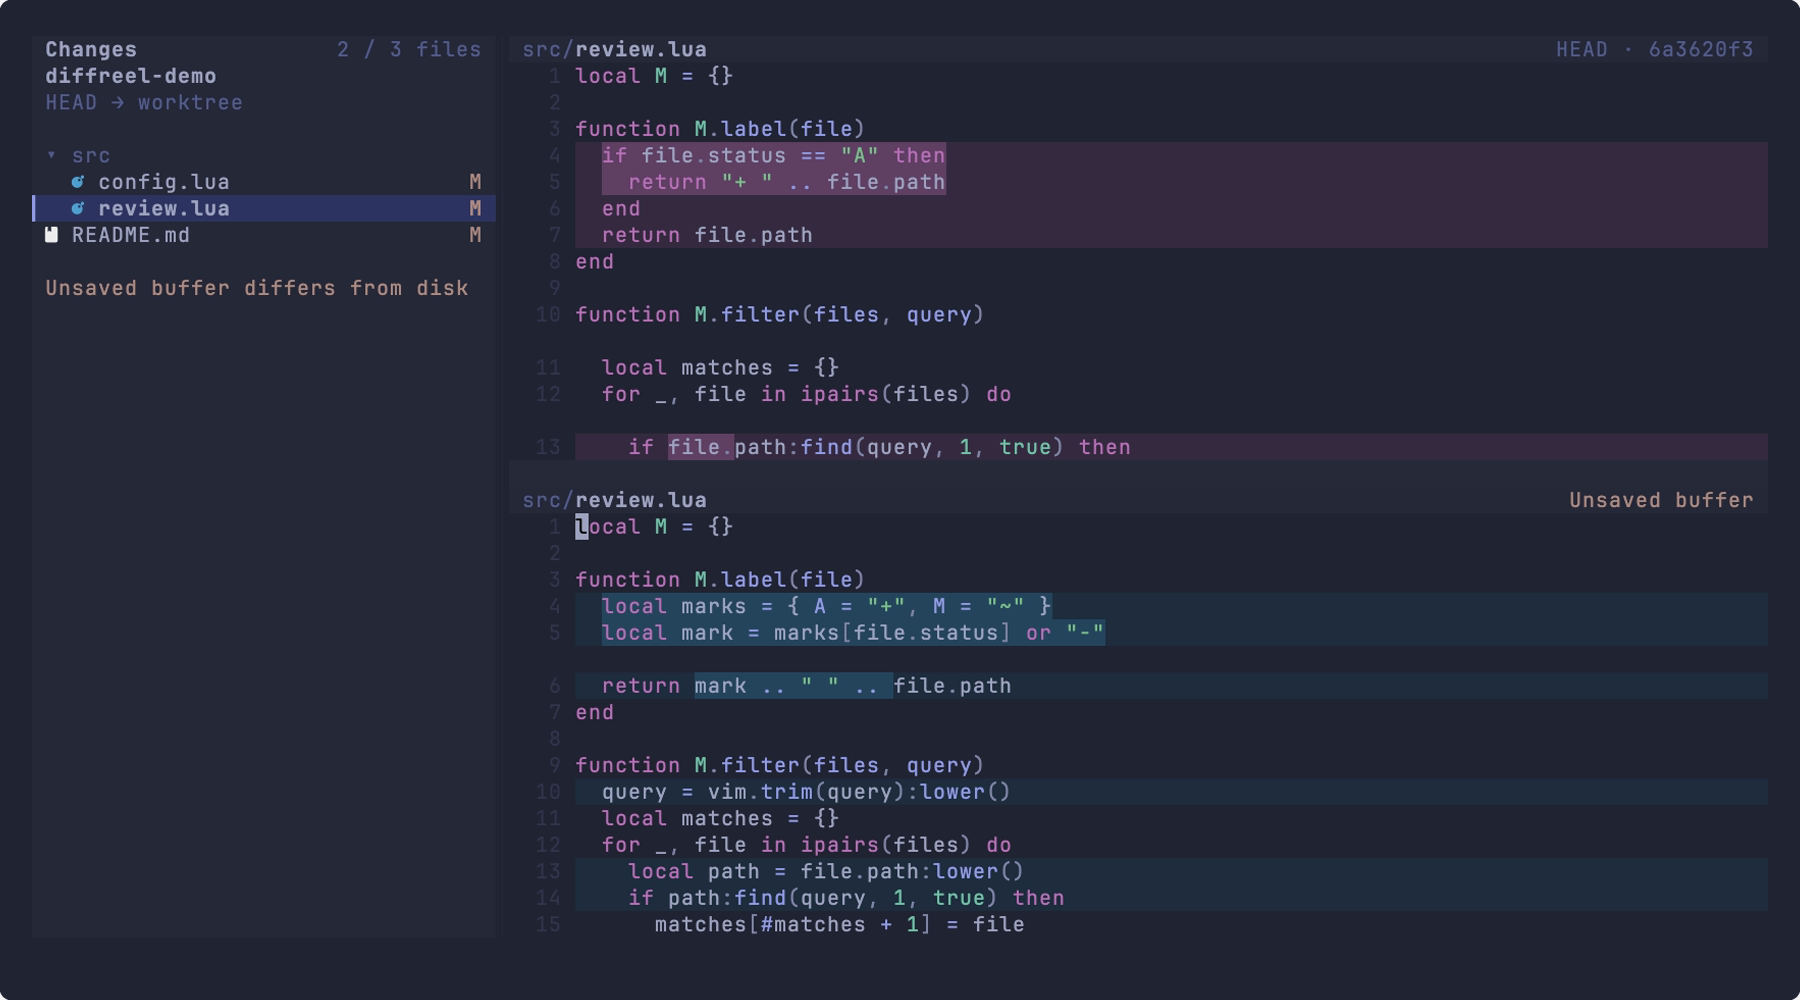
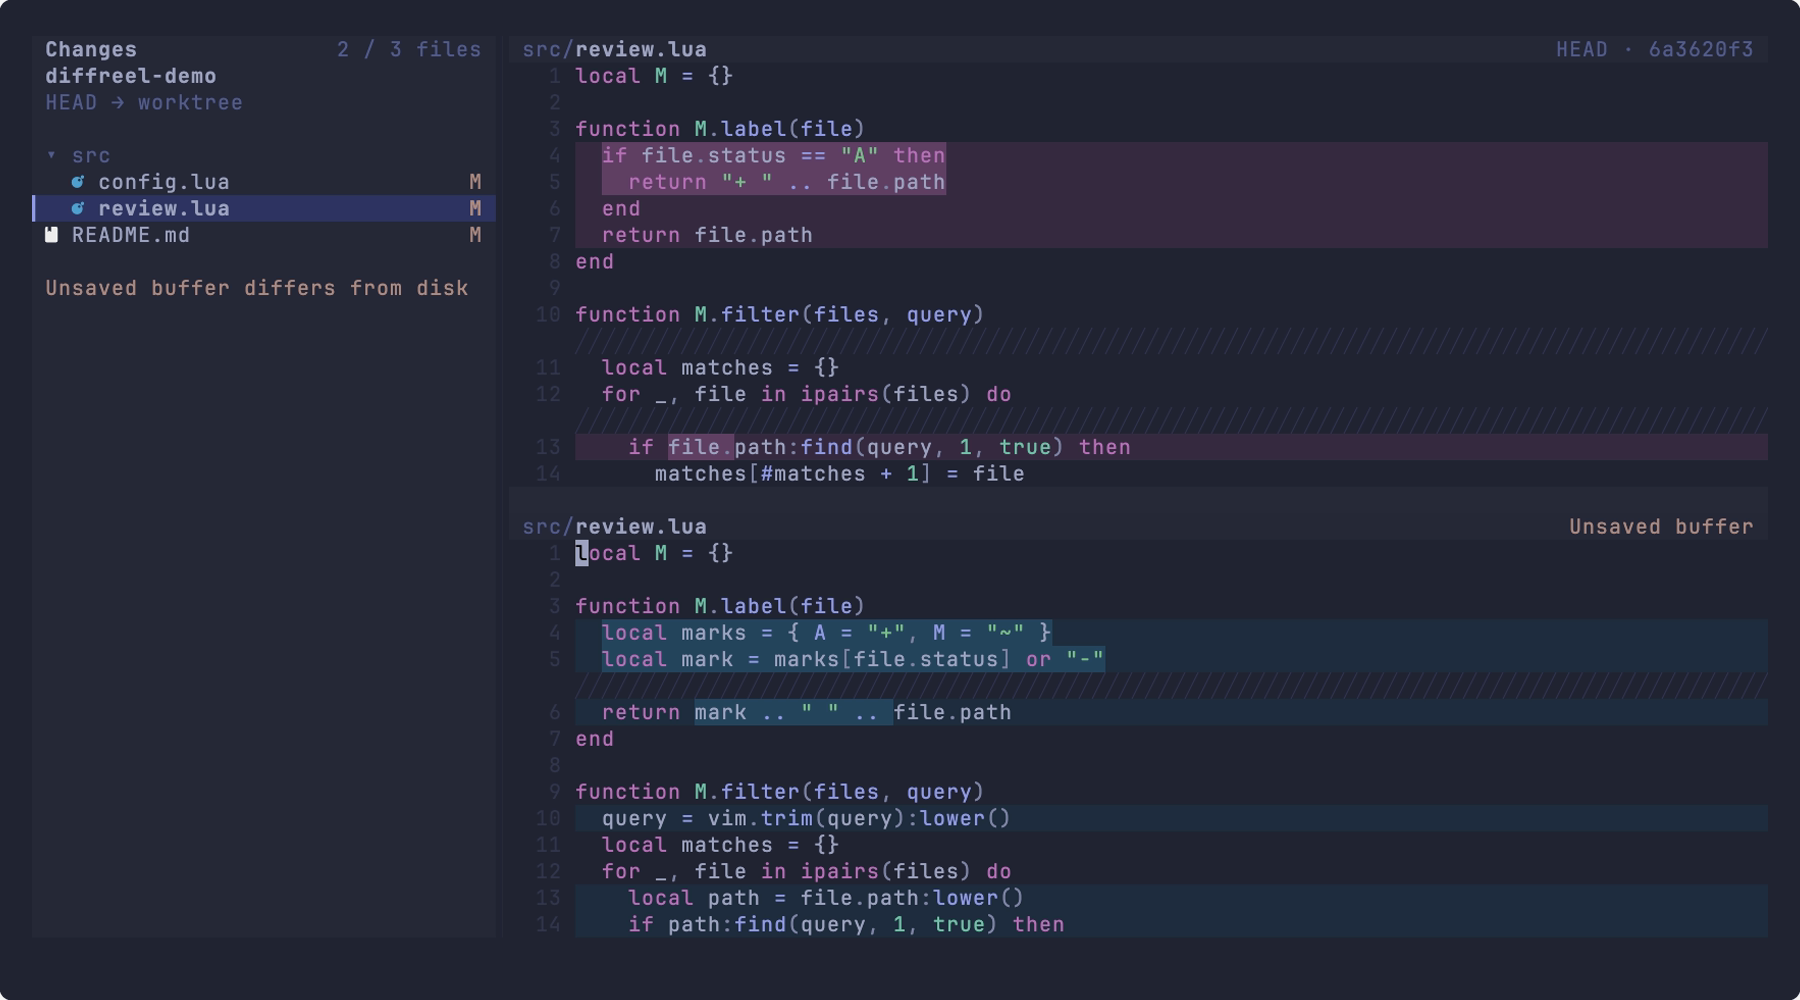
fix: preserve configured diff filler characters (#7)
## Summary

Review panes were replacing `fillchars.diff` with a space, hiding
configured diagonal filler. Preserve Neovim's configured character while
retaining subdued filler colors and blank end-of-buffer rows.

Add regression coverage for global/local settings, cleanup and rendered
filler across layout transitions. Document diagonal filler configuration
and refresh the README screenshots and GIFs using that setting.

## Validation

- Passed eight focused Lua suites covering presentation, highlights,
diff display, layouts and cleanup, plus the embedded highlight UI suite.
- Verified the regression fails before the fix and passes afterward;
checked file switching and unsaved-buffer preservation with the
installed Neovim configuration.
- Regenerated all five VHS scenes with successful checkpoints; inspected
the screenshots and browser GIF playback. Both demo fixture/publication
tests passed.
- Passed StyLua, Deno formatting/lint/type checks, help-tag/snippet
checks and `git diff --check`.

## References

- Restores configured filler hidden by #3.

Changed region(s): [[0.28, 0.465, 0.6222, 0.93], [0.8711, 0.496, 0.9644, 0.558]]

diff --git a/tests/highlights_ui.ts b/tests/highlights_ui.ts
@@ -42,12 +42,21 @@ async function main() {
   await git(root, "init", "-qb", "main");
   mkdir(join(root, "dir"));
   write(join(root, "dir/alpha.txt"), "same\nold value\n");
+  write(
+    join(root, "dir/filler.txt"),
+    "header\nremoved only\nseparator one\nold call\nold argument\nseparator two\nfooter\n",
+  );
   await git(root, "add", ".");
   await git(root, "commit", "-qm", "base");
   write(join(root, "dir/alpha.txt"), "same\nnew value\n");
+  write(
+    join(root, "dir/filler.txt"),
+    "header\nseparator one\nnew call\nseparator two\nadded first\nadded second\nfooter\n",
+  );
   const nvim = await Nvim.create(root, { columns: 145, rows: 35 });
   try {
     await nvim.lua(`
+      vim.opt.fillchars:append({diff='╱'})
       vim.api.nvim_set_hl(0,'DevIconFixture',{fg=0x123abc})
       package.preload['nvim-web-devicons']=function()
         return {get_icon=function() return 'I','DevIconFixture' end}
@@ -140,6 +149,76 @@ async function main() {
     await flush(nvim);
     assertEquals(style(nvim, "2-", "old value").foreground, 0x66ee88);
     nvim.capture(out, "inline");
+    await nvim.lua(`
+      plugin.setup({on_highlight=false})
+      plugin.select(v,'dir/filler.txt')
+    `);
+    await nvim.wait(
+      "return v.ready and v.selected_path=='dir/filler.txt' and not v.inline_pending or v.error",
+    );
+    assert(!await nvim.lua("return v.error"));
+    for (
+      const layout of ["side_by_side", "stacked", "inline", "side_by_side"]
+    ) {
+      await nvim.lua("plugin.set_layout(v,...)", layout);
+      await nvim.wait(
+        "return v.ready and not v.inline_pending or v.error",
+      );
+      assert(!await nvim.lua("return v.error"));
+      assertEquals(await nvim.lua("return v.layout"), layout);
+      await flush(nvim);
+      const groups = await nvim.lua(`
+        local groups={}
+        for _,name in ipairs({'DiffreelLineDelete','DiffreelLineAdd','DiffreelFiller'}) do
+          groups[name]=vim.api.nvim_get_hl(0,{name=name,link=false})
+        end
+        return groups
+      `);
+      assertEquals(
+        style(nvim, "removed only").background,
+        groups.DiffreelLineDelete.bg,
+      );
+      assertEquals(
+        style(nvim, "added first").background,
+        groups.DiffreelLineAdd.bg,
+      );
+      if (layout === "inline") {
+        assert(
+          !nvim.text().includes("╱"),
+          "Inline rendered native diff filler",
+        );
+      } else {
+        const windows = await nvim.lua(`
+          local result={}
+          for _,win in ipairs({v.left_win,v.right_win}) do
+            result[#result+1]={position=vim.api.nvim_win_get_position(win),
+              width=vim.api.nvim_win_get_width(win),height=vim.api.nvim_win_get_height(win)}
+          end
+          return result
+        `) as { position: [number, number]; width: number; height: number }[];
+        for (const { position: [top, left], width, height } of windows) {
+          const filler = (nvim.grids.get(1) ?? []).slice(top, top + height)
+            .flatMap((row) => row.slice(left, left + width))
+            .filter(([char]) => char === "╱");
+          assert(filler.length > 0, `Missing visible filler in ${layout}`);
+          for (const [, id] of filler) {
+            assertEquals(
+              nvim.highlights[id].foreground,
+              groups.DiffreelFiller.fg,
+            );
+            assertEquals(
+              nvim.highlights[id].background,
+              groups.DiffreelFiller.bg,
+            );
+            assert(
+              !nvim.highlights[id].reverse,
+              "Filler reversed the theme colors",
+            );
+          }
+        }
+      }
+      nvim.capture(out, "filler-" + layout);
+    }
     await nvim.lua(
       "vim.api.nvim_buf_set_lines(source,0,1,false,{'unsaved'});plugin.close(v);assert(vim.bo[source].modified);assert(vim.wo[ordinary].winhighlight=='Normal:FixtureNormal')",
     );

diff --git a/docs/user-guide.md b/docs/user-guide.md
@@ -437,7 +437,15 @@ The pane headers emphasize the file name, dim its parent directories, and identi
 
 The explorer header shows the selected file's position, such as `2 / 12 files`, in the current tree or list order. A slim marker and a background highlight identify the selected file independently of the explorer cursor. HEAD-following reviews show `HEAD` in the explorer comparison; the revision pane retains the resolved commit ID.
 
-Neovim supplies diff alignment, hunk navigation, and synchronized folds. Line backgrounds blend with the current theme, while character-level changes use stronger colors. The explorer and pane headers share a subtle background. Transparent themes keep their native window backgrounds. Review windows use blank end-of-buffer and diff filler characters; other fill characters remain intact, and cleanup restores settings still owned by diffreel.
+Neovim supplies diff alignment, hunk navigation, and synchronized folds. The old pane uses deletion colors and the new pane uses addition colors. Line backgrounds blend with the current theme, while character-level changes use stronger colors. The explorer and pane headers share a subtle background. Transparent themes keep their native window backgrounds.
+
+In side-by-side and stacked layouts, filler rows align additions and deletions with the opposite pane. Their characters follow Neovim's `fillchars.diff` setting and use the subdued `DiffreelFiller` highlight. To display diagonal lines, add this to your Neovim configuration before opening a review:
+
+```lua
+vim.opt.fillchars:append({ diff = "╱" })
+```
+
+An explicit space keeps filler rows blank; when the character is unspecified, Neovim uses its default. Review windows hide end-of-buffer characters. Other fill characters remain intact, and cleanup restores settings still owned by diffreel.
 
 The explorer uses these comparison markers:
 

diff --git a/docs/architecture.md b/docs/architecture.md
@@ -256,7 +256,7 @@ requests new Git content or changes the daemon protocol.
 
 Explorer rows cache byte ranges and group names, not resolved colors. A successful highlight application changes the generation and rerenders live explorers; hidden panels pick up the generation on reveal. File icon routing follows explicit definitions through the registered link chain, otherwise retaining provider colors. Direct icon changes require setup to invalidate existing provider extmarks. Popup buffers use dedicated groups and local window mappings. Native diff uses the existing presentation ownership and cleanup path; new chrome remaps preserve preexisting user aliases.
 
-Default diff backgrounds blend theme colors with `Normal`; panel and header surfaces derive from its foreground/background when both are present. Transparent themes retain the native chrome links. The selected-row marker overlays a reserved leading space, leaving file labels and cached byte ranges intact. Quiet filler characters use the presentation lease and preserve the raw `fillchars` value, including literal commas that `vim.opt` cannot round-trip.
+Default diff backgrounds blend theme colors with `Normal`; panel and header surfaces derive from its foreground/background when both are present. Transparent themes retain the native chrome links. The selected-row marker overlays a reserved leading space, leaving file labels and cached byte ranges intact. Blank end-of-buffer characters use the presentation lease and preserve the raw `fillchars` value, including literal commas that `vim.opt` cannot round-trip. Native diff filler characters retain the user's setting and use `DiffreelFiller` for subdued alignment rows.
 
 ## Explorer hierarchy and cursor
 
